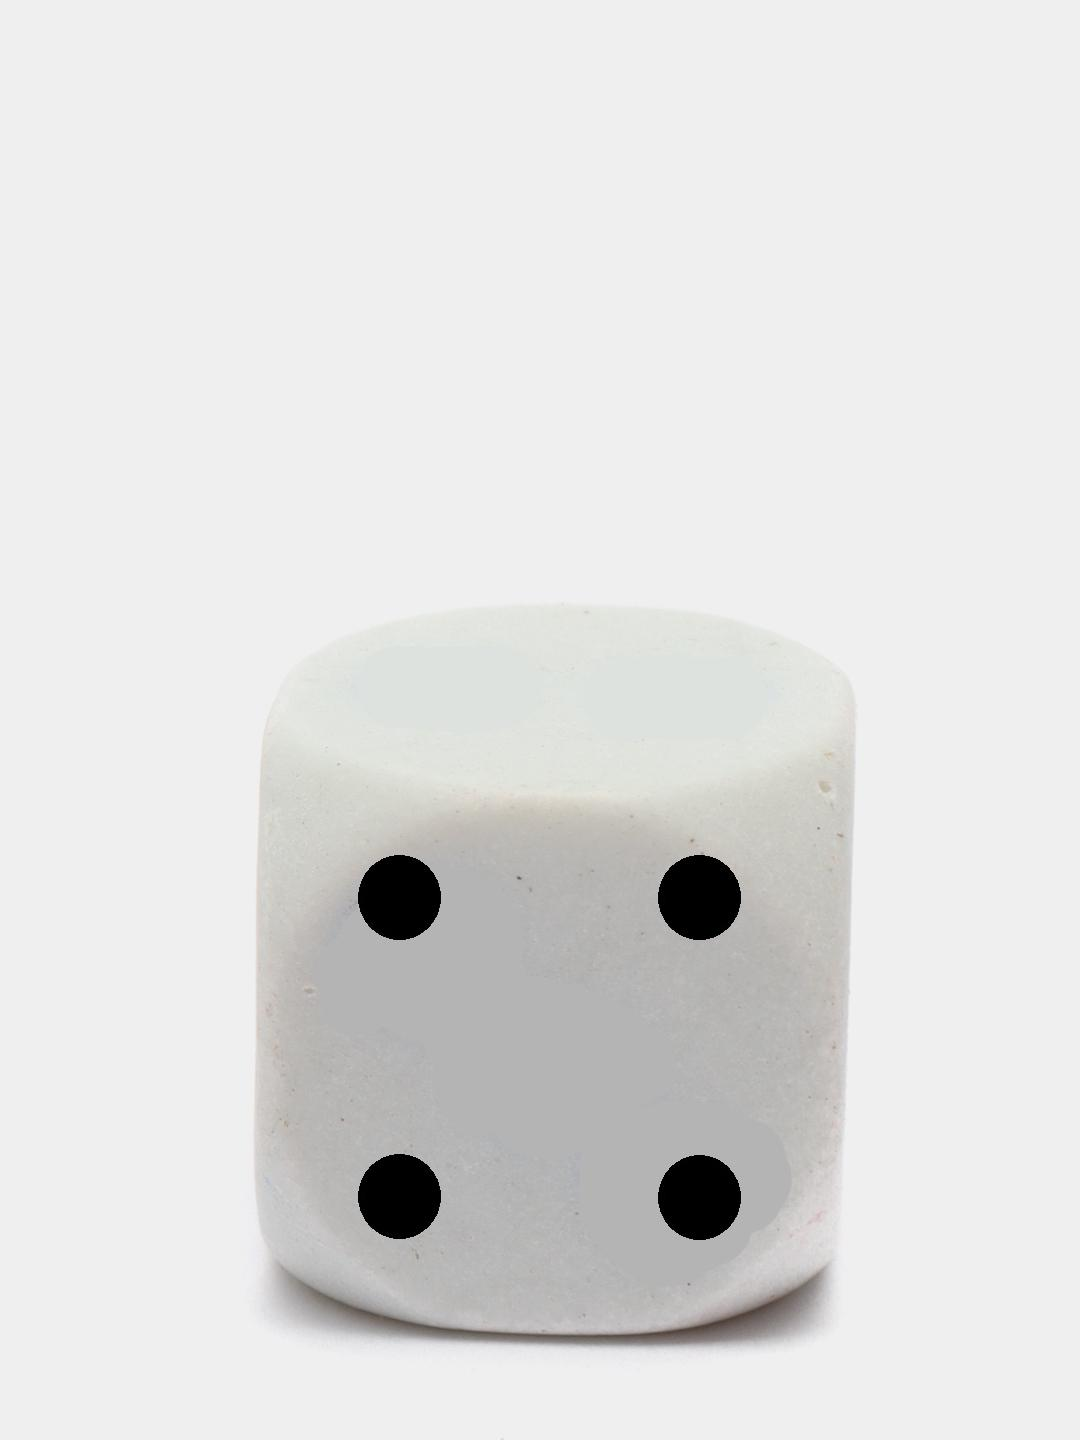
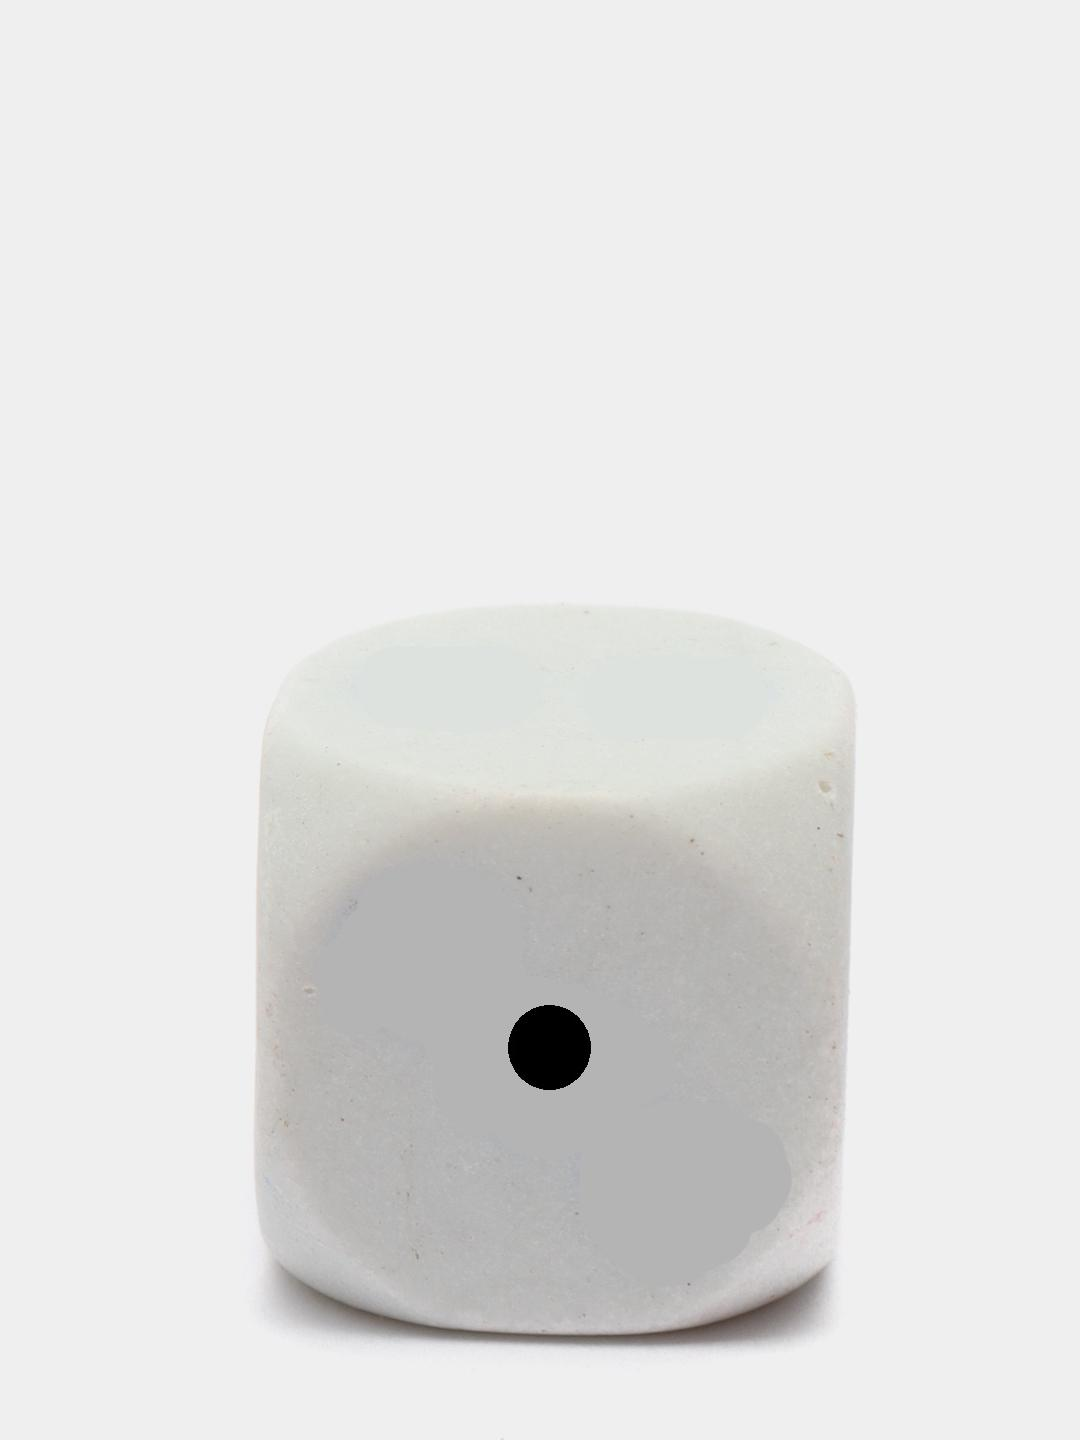
Second version project

diff --git a/main.py b/main.py
@@ -1,100 +1,111 @@
 from PIL import Image
 import random
+import image_class as IMAGE
 
-n1 = int(random.uniform(1, 6))
 
-n2 = int(random.uniform(1, 6))
-while n1 > n2:
-    n1 = int(random.uniform(1, 6))
-    n2 = int(random.uniform(1, 6))
-    if n1 > n2:
-        n1 = int(random.uniform(1, 6))
-        n2 = int(random.uniform(1, 6))
-    else:
-        break
-while n1 == 1 or n2 == 1:
-    n1 = int(random.uniform(1, 6))
-    n2 = int(random.uniform(1, 6))
-    if n1 == 1 or n2 == 1:
-        n1 = int(random.uniform(1, 6))
-        n2 = int(random.uniform(1, 6))
-    else:
-        break
-while n1 + n2 == 5:
-    n1 = int(random.uniform(1, 6))
-    n2 = int(random.uniform(1, 6))
-    if n1 + n2 == 5:
-        n1 = int(random.uniform(1, 6))
-        n2 = int(random.uniform(1, 6))
-    else:
-        break
 img = Image.open("DICE_EMPTY.jpg")
 img.load()
+img2 = Image.open("DICE_EMPTY.jpg")
+img2.load()
 point = Image.open("DICE_POINT_edited.png")
 point.load()
-if n1 == 1:
-    img.paste(point, (500, 1000), mask=point)
-if n1 == 2:
-    img.paste(point, (650, 1150), mask=point)
-    img.paste(point, (350, 850), mask=point)
-if n1 == 3:
-    img.paste(point, (650, 1150), mask=point)
-    img.paste(point, (350, 850), mask=point)
-    img.paste(point, (500, 1000), mask=point)
-if n1 == 4:
-    img.paste(point, (650, 1150), mask=point)
-    img.paste(point, (350, 850), mask=point)
-    img.paste(point, (350, 1149), mask=point)
-    img.paste(point, (650, 850), mask=point)
-if n1 == 5:
-    img.paste(point, (650, 1150), mask=point)
-    img.paste(point, (350, 850), mask=point)
-    img.paste(point, (350, 1149), mask=point)
-    img.paste(point, (500, 1000), mask=point)
-    img.paste(point, (650, 850), mask=point)
-if n1 == 6:
-    img.paste(point, (650, 1150), mask=point)
-    img.paste(point, (350, 850), mask=point)
-    img.paste(point, (350, 1000), mask=point)
-    img.paste(point, (650, 1000), mask=point)
-    img.paste(point, (350, 1149), mask=point)
-    img.paste(point, (650, 850), mask=point)
-dice1 = img
-dice1.save("dice1.jpg")
-if n2 == 1:
-    img.paste(point, (500, 1000), mask=point)
-if n2 == 2:
-    img.paste(point, (650, 1150), mask=point)
-    img.paste(point, (350, 850), mask=point)
-if n2 == 3:
-    img.paste(point, (650, 1150), mask=point)
-    img.paste(point, (350, 850), mask=point)
-    img.paste(point, (500, 1000), mask=point)
-if n2 == 4:
-    img.paste(point, (650, 1150), mask=point)
-    img.paste(point, (350, 850), mask=point)
-    img.paste(point, (350, 1149), mask=point)
-    img.paste(point, (650, 850), mask=point)
-if n2 == 5:
-    img.paste(point, (650, 1150), mask=point)
-    img.paste(point, (350, 850), mask=point)
-    img.paste(point, (350, 1149), mask=point)
-    img.paste(point, (500, 1000), mask=point)
-    img.paste(point, (650, 850), mask=point)
-if n2 == 6:
-    img.paste(point, (650, 1150), mask=point)
-    img.paste(point, (350, 850), mask=point)
-    img.paste(point, (350, 1000), mask=point)
-    img.paste(point, (650, 1000), mask=point)
-    img.paste(point, (350, 1149), mask=point)
-    img.paste(point, (650, 850), mask=point)
-dice2 = img
-dice2.save("dice2.jpg")
+
+
+def gen_dice(num, count):
+    if count == 1:
+        if num == 1:
+            img.paste(point, (500, 1000), mask=point)
+            IMAGE.dice1 = img
+            IMAGE.dice1.save("dice1.jpg")
+        if num == 2:
+            img.paste(point, (650, 1150), mask=point)
+            img.paste(point, (350, 850), mask=point)
+            IMAGE.dice1 = img
+            IMAGE.dice1.save("dice1.jpg")
+        if num == 3:
+            img.paste(point, (650, 1150), mask=point)
+            img.paste(point, (350, 850), mask=point)
+            img.paste(point, (500, 1000), mask=point)
+            IMAGE.dice1 = img
+            IMAGE.dice1.save("dice1.jpg")
+        if num == 4:
+            img.paste(point, (650, 1150), mask=point)
+            img.paste(point, (350, 850), mask=point)
+            img.paste(point, (350, 1149), mask=point)
+            img.paste(point, (650, 850), mask=point)
+            IMAGE.dice1 = img
+            IMAGE.dice1.save("dice1.jpg")
+        if num == 5:
+            img.paste(point, (650, 1150), mask=point)
+            img.paste(point, (350, 850), mask=point)
+            img.paste(point, (350, 1149), mask=point)
+            img.paste(point, (500, 1000), mask=point)
+            img.paste(point, (650, 850), mask=point)
+            IMAGE.dice1 = img
+            IMAGE.dice1.save("dice1.jpg")
+        if num == 6:
+            img.paste(point, (650, 1150), mask=point)
+            img.paste(point, (350, 850), mask=point)
+            img.paste(point, (350, 1000), mask=point)
+            img.paste(point, (650, 1000), mask=point)
+            img.paste(point, (350, 1149), mask=point)
+            img.paste(point, (650, 850), mask=point)
+            IMAGE.dice1 = img
+            IMAGE.dice1.save("dice1.jpg")
+    else:
+        if num == 1:
+            img2.paste(point, (500, 1000), mask=point)
+            IMAGE.dice2 = img2
+            IMAGE.dice2.save("dice2.jpg")
+        if num == 2:
+            img2.paste(point, (650, 1150), mask=point)
+            img2.paste(point, (350, 850), mask=point)
+            IMAGE.dice2 = img2
+            IMAGE.dice2.save("dice2.jpg")
+        if num == 3:
+            img2.paste(point, (650, 1150), mask=point)
+            img2.paste(point, (350, 850), mask=point)
+            img2.paste(point, (500, 1000), mask=point)
+            IMAGE.dice2 = img2
+            IMAGE.dice2.save("dice2.jpg")
+        if num == 4:
+            img2.paste(point, (650, 1150), mask=point)
+            img2.paste(point, (350, 850), mask=point)
+            img2.paste(point, (350, 1149), mask=point)
+            img2.paste(point, (650, 850), mask=point)
+            IMAGE.dice2 = img2
+            IMAGE.dice2.save("dice2.jpg")
+        if num == 5:
+            img2.paste(point, (650, 1150), mask=point)
+            img2.paste(point, (350, 850), mask=point)
+            img2.paste(point, (350, 1149), mask=point)
+            img2.paste(point, (500, 1000), mask=point)
+            img2.paste(point, (650, 850), mask=point)
+            IMAGE.dice2 = img2
+            IMAGE.dice2.save("dice2.jpg")
+        if num == 6:
+            img2.paste(point, (650, 1150), mask=point)
+            img2.paste(point, (350, 850), mask=point)
+            img2.paste(point, (350, 1000), mask=point)
+            img2.paste(point, (650, 1000), mask=point)
+            img2.paste(point, (350, 1149), mask=point)
+            img2.paste(point, (650, 850), mask=point)
+            IMAGE.dice2 = img2
+            IMAGE.dice2.save("dice2.jpg")
+
+
+n1 = int(random.uniform(1, 7))
+n2 = int(random.uniform(1, 7))
+gen_dice(n1, 1)
+gen_dice(n2, 2)
 print(n1, n2)
 result = Image.new('RGB', (2160, 1440))
 result.load()
-dice1.load()
-dice2.load()
-result.paste(dice1, (0, 0))
-result.paste(dice2, (1080, 0))
+IMAGE.dice1.load()
+IMAGE.dice2.load()
+result.paste(IMAGE.dice1, (0, 0))
+result.paste(IMAGE.dice2, (1080, 0))
 result.save("dice_result.jpg")
+result.show()
+move_points = n1 + n2
+print("You got", move_points, "points!")

diff --git a/image_class.py b/image_class.py
@@ -1,0 +1,7 @@
+class Dice:
+    pass
+
+
+dice1 = Dice()
+
+dice2 = Dice()
